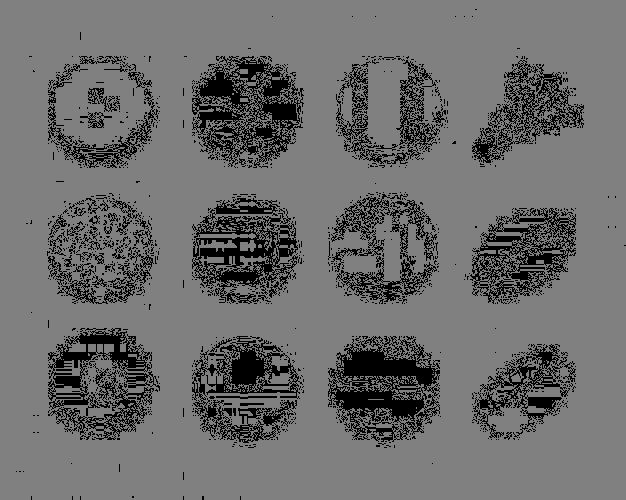
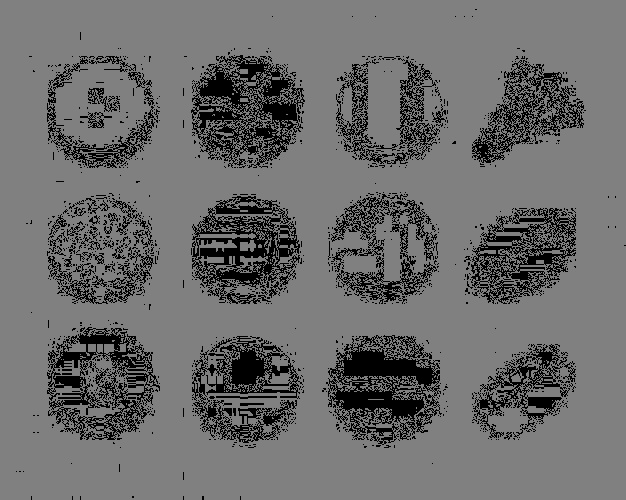
Ball 1

diff --git a/Rafael/atividade7/main.cpp b/Rafael/atividade7/main.cpp
@@ -3,29 +3,6 @@
 
 using namespace cv;
 
-void getImageLayers(Mat &src, Mat *dst);
-void getMaskFromHue(Mat &src, Mat &dst, int begin, int end);
-
-int main()
-{
-    char filename[100];
-
-    Mat gray, bgr, hsv;
-    bgr = imread("../images/ball.jpg", IMREAD_COLOR);
-    GaussianBlur(bgr, bgr, Size(3, 3), 0, 0, BORDER_DEFAULT);
-    cvtColor(bgr, gray, COLOR_BGR2GRAY);
-    cvtColor(bgr, hsv, COLOR_BGR2HSV);
-    imwrite("../images/gray.jpg", gray);
-    imwrite("../images/hsv.jpg", hsv);
-
-
-    // GET BLUE BALL
-    Mat mask;
-    getMaskFromHue(hsv, mask, 100, 110);
-    imwrite("../images/mask.jpg", mask);
-    return 0;
-}
-
 void getImageLayers(Mat &src, Mat *dst)
 {
     for (int bit = 0; bit < 8; bit++)
@@ -56,56 +33,109 @@ void getMaskFromHue(Mat &src, Mat &mask, int begin, int end)
     }
 }
 
+void applyMaskBGR(Mat &src, Mat &dst, Mat &mask, bool remove = false, bool light = false)
+{
+    int reference = remove ? 255 : 0;
+    dst = src.clone();
+    for (int i = 0; i < dst.rows; i++)
+    {
+        for (int j = 0; j < dst.cols; j++)
+        {
+            Vec3b pixel = src.at<Vec3b>(i, j);
+            if (mask.at<uchar>(i, j) == reference)
+            {
+                for (int k = 0; k < 3; k++)
+                    dst.at<Vec3b>(i, j)[k] = light * 255;
+            }
+        }
+    }
+}
+int main()
+{
+    // SETTING VARIABLES
+    char filename[100];
+    std::string labels;
+    Mat layers[8], channels[3];
+    Mat gray, bgr, hsv, mask;
+
+    // RECEIVING IMAGE
+    bgr = imread("../images/ball.jpg", IMREAD_COLOR);
+    // GaussianBlur(bgr, bgr, Size(3, 3), 0, 0, BORDER_DEFAULT);
+
+    // GET GRAY AND HSV
+    cvtColor(bgr, gray, COLOR_BGR2GRAY);
+    cvtColor(bgr, hsv, COLOR_BGR2HSV);
+
+    // CREATE ERODE AND DILATE ELEMENTS
+    Mat rec = getStructuringElement(0, Size(3, 3));
+    Mat cross = getStructuringElement(1, Size(3, 3));
+    Mat ellipse = getStructuringElement(1, Size(3, 3));
+
+    // GET BLUE BALL
+    getMaskFromHue(hsv, mask, 100, 108);
+    imwrite("../images/ball1/mask.jpg", mask);
+    int F_ERODE = 1, F_DILATE = 4, S_ERODE = 3;
+    for (int i = 0; i < F_ERODE; i++)
+        erode(mask, mask, rec);
+    for (int i = 0; i < F_DILATE; i++)
+        dilate(mask, mask, rec);
+    for (int i = 0; i < S_ERODE; i++)
+        erode(mask, mask, rec);
+    applyMaskBGR(bgr, bgr, mask, false, true);
+    imwrite("../images/ball1/ball.jpg", bgr);
+    applyMaskBGR(bgr, bgr, mask, true, true);
+    imwrite("../images/ball2/ball2.jpg", bgr);
+    return 0;
+}
+
 // // GET BIT LAYERS:
-// Mat layers[8];
 // getImageLayers(gray, layers);
-// for(int i = 0; i < 8; i++){
-//     sprintf(filename, "../images/layers/%d.jpg",i);
+// for (int i = 0; i < 8; i++)
+// {
+//     sprintf(filename, "../images/layers/%d.jpg", i);
 //     imwrite(filename, layers[i]);
 // }
 
 // // GET BGR CHANNELS
-// Mat channels[3];
-// char labels[] = "BGR";
+// labels = "BGR";
 // split(bgr, channels);
-// for(int i = 0; i < 3; i++){
-//     sprintf(filename, "../images/channels/bgr/%c.jpg",labels[i]);
+// for (int i = 0; i < 3; i++)
+// {
+//     sprintf(filename, "../images/channels/bgr/%c.jpg", labels[i]);
 //     imwrite(filename, channels[i]);
 // }
 
 // // GET HSV CHANNELS
-// Mat channels[3];
-// char labels[] = "HSV";
+// labels = "HSV";
 // split(hsv, channels);
-// for(int i = 0; i < 3; i++){
-//     sprintf(filename, "../images/channels/hsv/%c.jpg",labels[i]);
+// for (int i = 0; i < 3; i++)
+// {
+//     sprintf(filename, "../images/channels/hsv/%c.jpg", labels[i]);
 //     imwrite(filename, channels[i]);
 // }
 
 // // GET BGR CHANNELS LAYERS
-// Mat layers[8];
-// Mat channels[3];
-// char labels[] = "BGR";
+// labels = "BGR";
 // split(bgr, channels);
-// for(int i = 0; i < 3; i++){
+// for (int i = 0; i < 3; i++)
+// {
 //     getImageLayers(channels[i], layers);
 //     for (int j = 0; j < 8; j++)
 //     {
-//         sprintf(filename, "../images/channels/bgr/%c/%d.jpg",labels[i],j);
+//         sprintf(filename, "../images/channels/bgr/%c/%d.jpg", labels[i], j);
 //         imwrite(filename, layers[j]);
 //     }
 // }
 
 // // GET HSV CHANNELS LAYERS
-// Mat layers[8];
-// Mat channels[3];
-// char labels[] = "HSV";
+// labels = "HSV";
 // split(hsv, channels);
-// for(int i = 0; i < 3; i++){
+// for (int i = 0; i < 3; i++)
+// {
 //     getImageLayers(channels[i], layers);
 //     for (int j = 0; j < 8; j++)
 //     {
-//         sprintf(filename, "../images/channels/hsv/%c/%d.jpg",labels[i],j);
+//         sprintf(filename, "../images/channels/hsv/%c/%d.jpg", labels[i], j);
 //         imwrite(filename, layers[j]);
 //     }
 // }
